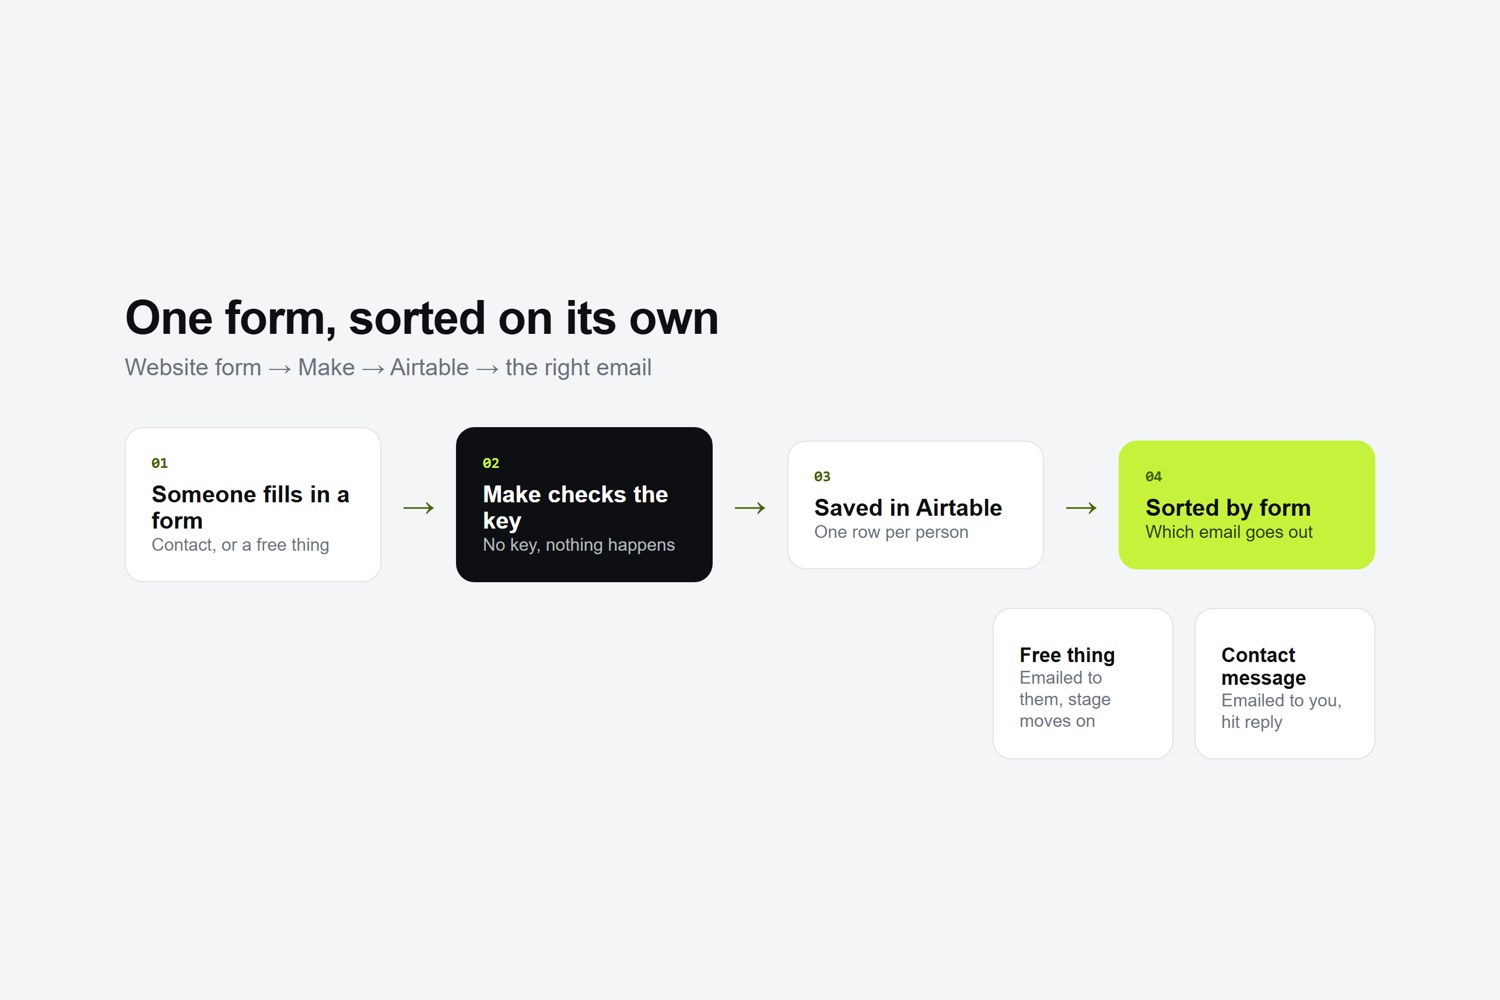
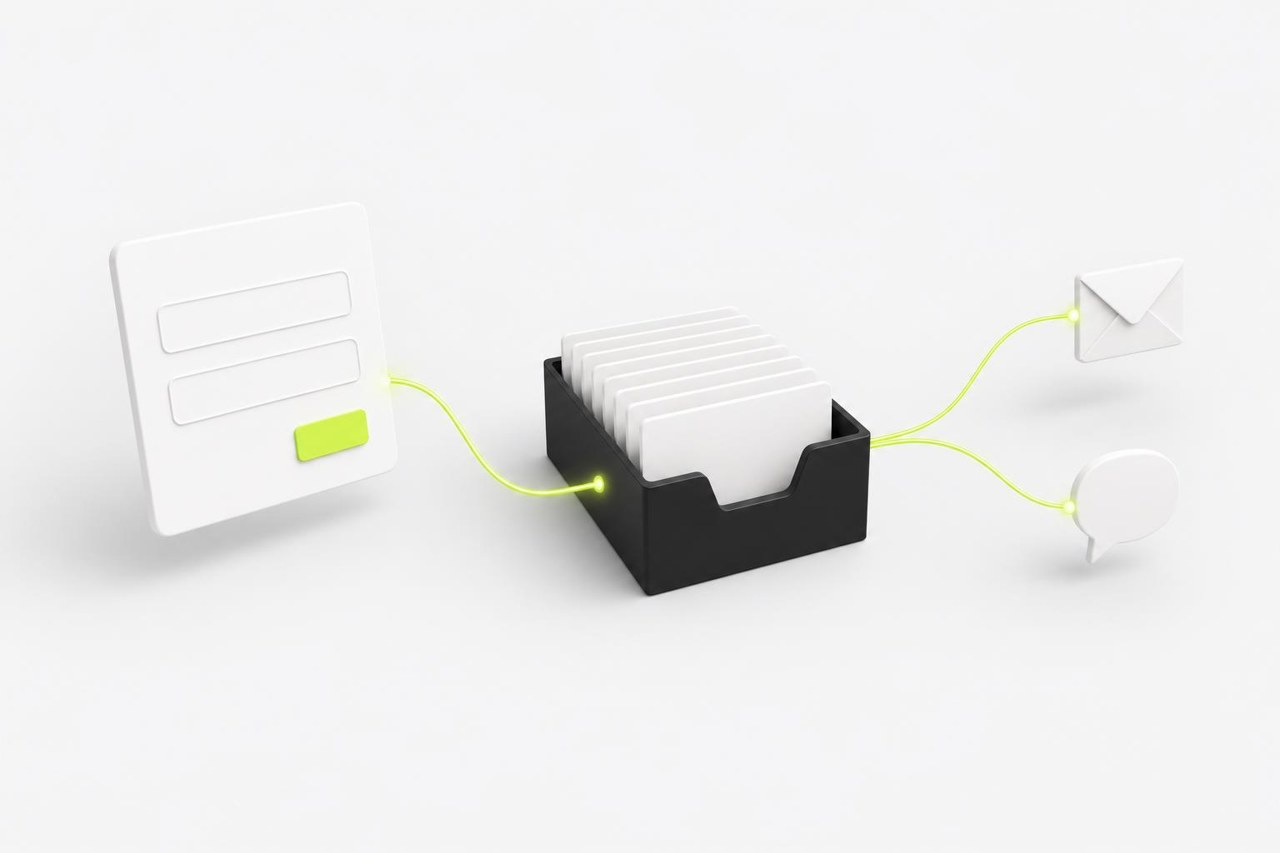
SEO: keyword titles from Google Trends UK, sharper post images, new cover
- Home now leads with 'Workflow automation for small businesses' (UK breakout search); keywords,
  description, share image and llms.txt updated; blog title includes 'small business automation'
- Tomorrow's post renamed to 'Website Forms to Airtable with Make: Auto-Reply Every Lead',
  keyword slug and headings; post titles only add the brand when they stay under 60 characters
- Screenshots retaken at 2x (scripts/shot.mjs), scenario redrawn clearly, new fal cover

Changed region(s): [[0.0312, 0.3048, 0.9375, 0.7315], [0.7812, 0.6096, 0.9062, 0.7315]]

diff --git a/src/app/page.tsx b/src/app/page.tsx
@@ -20,7 +20,7 @@ import { FAQS } from "@/lib/faqs";
 // The home page follows the StoryBrand website wireframe (header, stakes, value,
 // guide, plan, explanatory paragraph, last call). See REDESIGN-PLAN.md.
 
-const TITLE = "Process automation for small businesses | Oloye";
+const TITLE = "Workflow Automation for Small Businesses | Oloye";
 const DESCRIPTION = SITE_DESCRIPTION;
 
 export const metadata: Metadata = {
@@ -85,7 +85,7 @@ export default function HomePage() {
       <JsonLd data={webPageSchema({ path: "/", title: TITLE, description: DESCRIPTION, type: "WebPage" })} />
       <JsonLd
         data={serviceSchema({
-          name: "Process automation for small businesses",
+          name: "Workflow automation for small businesses",
           description: DESCRIPTION,
           serviceType: "Business process automation",
           areaServed: "GB",
@@ -97,7 +97,7 @@ export default function HomePage() {
         {/* 1. Header: what we offer, how life gets better, what to do next */}
         <section className="px-4 pb-24 pt-20 sm:px-6 sm:pb-32 sm:pt-28">
           <div className="mx-auto flex max-w-5xl flex-col items-center text-center">
-            <p className="eyebrow">Process automation for small businesses</p>
+            <p className="eyebrow">Workflow automation for small businesses</p>
             <h1 className="display mt-6 text-[2.9rem] text-foreground sm:text-7xl lg:text-[5.5rem]">
               Stop doing the same job <span className="lime-mark">twice.</span>
             </h1>

diff --git a/src/app/layout.tsx b/src/app/layout.tsx
@@ -38,14 +38,14 @@ export const metadata: Metadata = {
   creator: AUTHOR.name,
   publisher: SITE_NAME,
   keywords: [
-    "Process automation",
-    "Business automation UK",
-    "Small business automation",
-    "Automation for coaches",
-    "Airtable automation",
+    "Workflow automation for small business",
+    "Marketing automation for small business",
+    "Business process automation",
+    "Small business automation UK",
+    "Airtable forms",
+    "Airtable CRM",
     "Make.com automation",
-    "Claude automation",
-    "Save time on admin",
+    "Automation for coaches",
   ],
   alternates: {
     canonical: SITE_URL,

diff --git a/src/app/blog/[slug]/page.tsx b/src/app/blog/[slug]/page.tsx
@@ -68,8 +68,10 @@ export async function generateMetadata({ params }: Props): Promise<Metadata> {
   if (!post) return { title: "Post not found" };
   const url = `${SITE_URL}/blog/${post.slug}`;
   const author = getAuthor(post.author);
+  // Keep the title Google shows under 60 characters: add the brand only if it fits.
+  const pageTitle = post.title.length + 8 <= 60 ? `${post.title} | Oloye` : post.title;
   return {
-    title: post.title,
+    title: { absolute: pageTitle },
     description: post.excerpt,
     alternates: { canonical: url },
     authors: [{ name: author.name, url: author.url }],

diff --git a/src/lib/site.ts b/src/lib/site.ts
@@ -7,7 +7,7 @@ export const SITE_LEGAL_NAME = "Oloye Adeosun";
 export const SITE_TAGLINE = "Simple automations that save your business time and money";
 
 export const SITE_DESCRIPTION =
-  "Simple automations that save small businesses time and money. We take the repeat jobs off your plate, from new leads to clients who come back.";
+  "Simple workflow automation for small businesses. We join up Airtable, Make and Google Workspace so leads, onboarding and follow-ups run on their own.";
 
 export const AUTHOR = {
   name: "Oloye Adeosun",

diff --git a/src/app/blog/page.tsx b/src/app/blog/page.tsx
@@ -19,7 +19,7 @@ const DESCRIPTION =
   "Simple fixes for the jobs that keep small business owners working late: leads, onboarding, delivery and keeping clients coming back.";
 
 export const metadata: Metadata = {
-  title: { absolute: `${TITLE} | Oloye blog` },
+  title: { absolute: "Small Business Automation Ideas and How-Tos | Oloye Blog" },
   description: DESCRIPTION,
   alternates: { canonical: `${SITE_URL}/blog` },
   openGraph: {

diff --git a/src/app/opengraph-image.tsx b/src/app/opengraph-image.tsx
@@ -6,7 +6,7 @@ export const contentType = OG_CONTENT_TYPE;
 
 export default async function Image() {
   return renderOg({
-    kicker: "Process automation for small businesses",
+    kicker: "Workflow automation for small businesses",
     title: "Stop doing the same job twice.",
     sub: "Simple automations that save your business time and money.",
   });

diff --git a/content/posts/website-forms-to-airtable-with-make.md b/content/posts/website-forms-to-airtable-with-make.md
@@ -1,11 +1,11 @@
 ---
-title: "Every Website Form in One List, Sorted for You"
+title: "Website Forms to Airtable with Make: Auto-Reply Every Lead"
 cardLine: "One form, one list, and the right email goes out on its own."
 date: "2026-10-28"
 author: "oloye"
 category: "Leads"
-tags: ["website forms", "make", "airtable", "gmail", "lead follow-up"]
-excerpt: "How we send every form on a website to one Airtable list, then let Make send the right email on its own, with no data left sitting on the site."
+tags: ["airtable forms", "make.com automation", "website forms", "lead follow-up", "small business automation"]
+excerpt: "A simple Make.com automation that sends every website form into Airtable and emails the right reply on its own. Step by step, for small businesses."
 summary:
   - "Why forms that land in an inbox get forgotten, and what to do instead."
   - "The four steps: form, Make, Airtable, the right email."
@@ -30,13 +30,13 @@ The form did its job. The bit after it didn't.
 
 > **In plain words:** an automation here just means that when one thing happens (a form is filled in), the next things happen on their own (the person is saved, and the right email goes out).
 
-## Where form messages go to die
+## Why website forms get lost in your inbox
 
 Most websites send a form straight to an email inbox. That feels fine until you have a few a week. Then they sit between newsletters and receipts, nobody owns them, and there's no list of who asked for what.
 
 What you want instead is simple. Every form lands in one list. Each person is one row. And the first reply goes out on its own, so nobody waits.
 
-## The four steps
+## How to send website forms to Airtable with Make
 
 This is the exact setup we built for the forms on this site.
 
@@ -46,11 +46,11 @@ This is the exact setup we built for the forms on this site.
 
 There are two kinds on this site. One asks for a free thing, like a checklist or a guide.
 
-![A free thing form on the website](/images/blog/website-forms/free-thing-form.jpg)
+![A free thing form on the website](/images/blog/website-forms/free-thing-form.png)
 
 The other is a plain contact form.
 
-![The contact form on the website](/images/blog/website-forms/contact-form.jpg)
+![The contact form on the website](/images/blog/website-forms/contact-form.png)
 
 Each one sends a small bundle: name, email, what they asked for or said, and a label for which form it was.
 
@@ -71,7 +71,7 @@ Next, Make looks for the person in an Airtable table by their email.
 
 One person, one row. No duplicates.
 
-![The scenario in Make, left to right](/images/blog/website-forms/make-scenario.jpg)
+![The Make scenario, step by step: webhook, check the key, save in Airtable, router, then the two emails](/images/blog/website-forms/make-scenario.png)
 
 ### Step 4: Sorted by form
 
@@ -79,13 +79,13 @@ Then Make looks at the label and picks a road.
 
 **A free thing:** Gmail sends them an email with the link, straight away. Their row moves to "Free thing sent".
 
-![The email someone gets after asking for a free thing](/images/blog/website-forms/email-free-thing.jpg)
+![The email someone gets after asking for a free thing](/images/blog/website-forms/email-free-thing.png)
 
 **A contact message:** Gmail sends the message to you, with their email set as the reply address. Hit reply and you're talking to them.
 
-![The email you get for a contact message](/images/blog/website-forms/email-contact.jpg)
+![The email you get for a contact message](/images/blog/website-forms/email-contact.png)
 
-## Keeping it safe
+## Keeping your forms and your list safe
 
 A few small things do most of the work:
 
